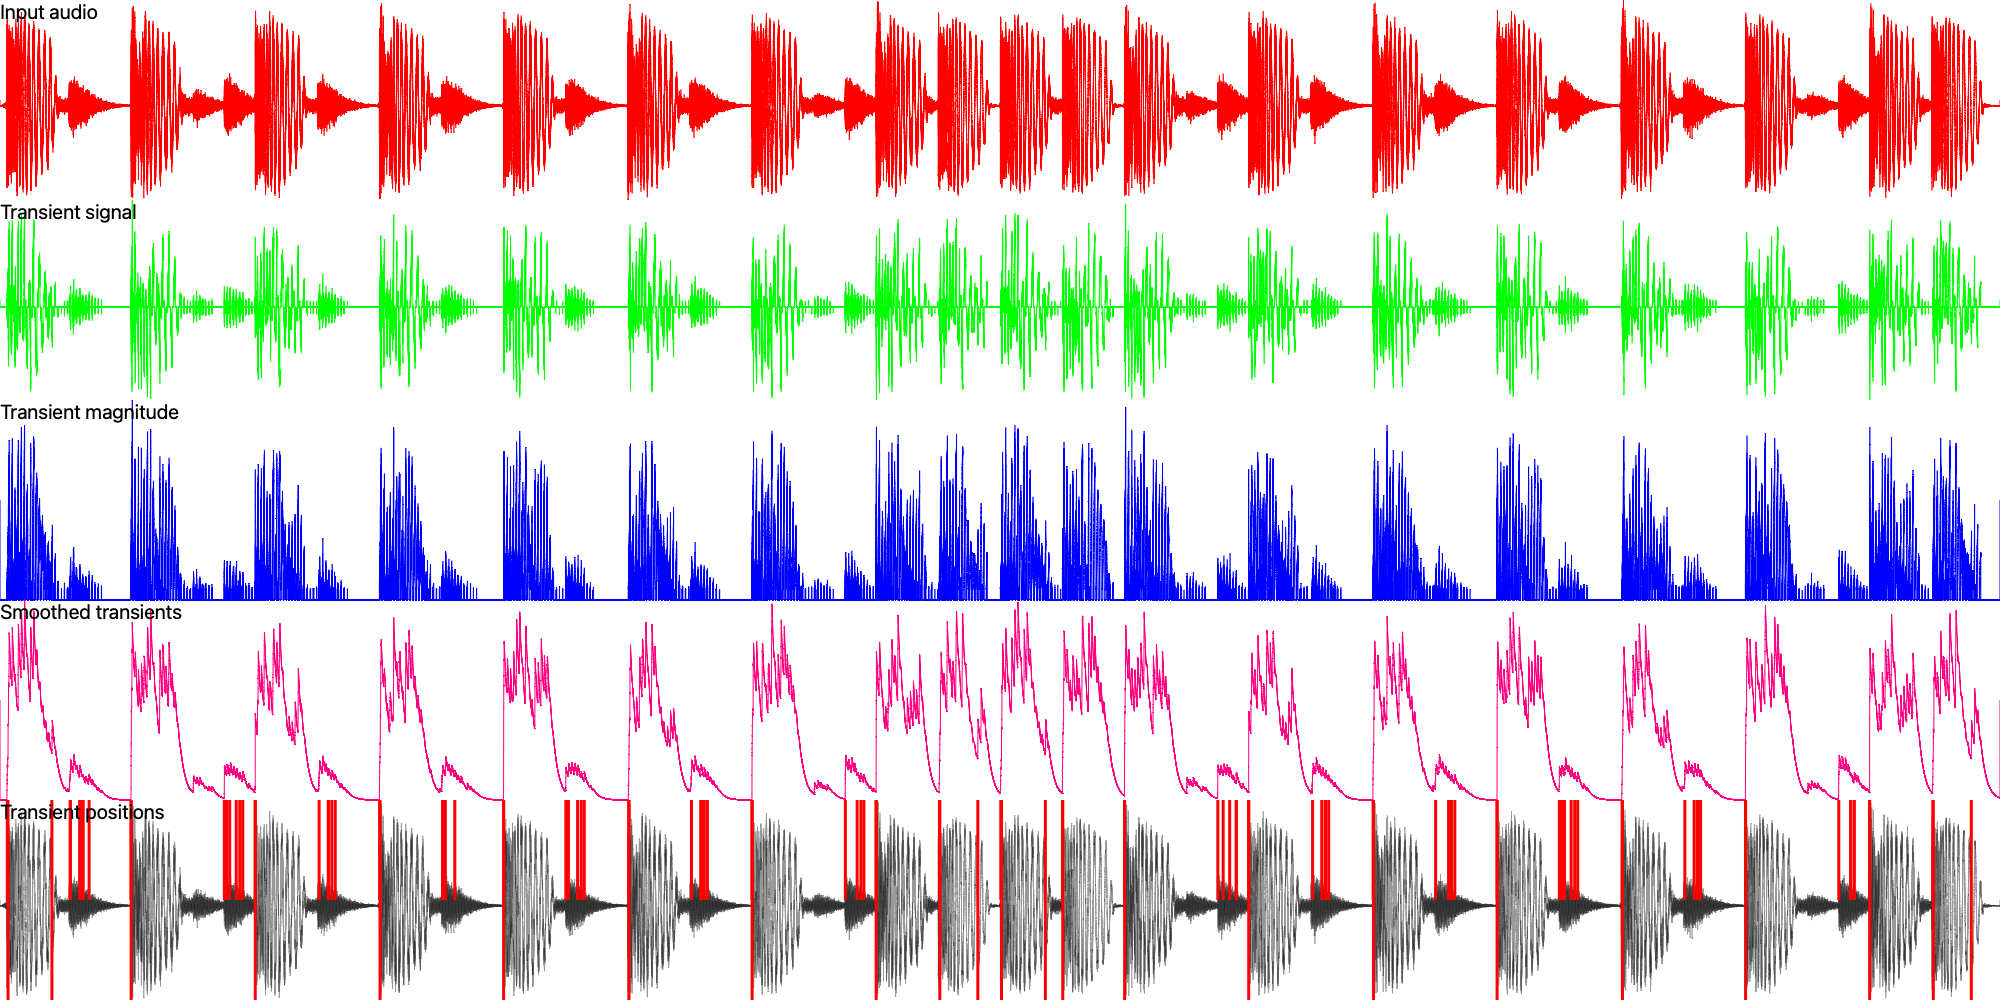
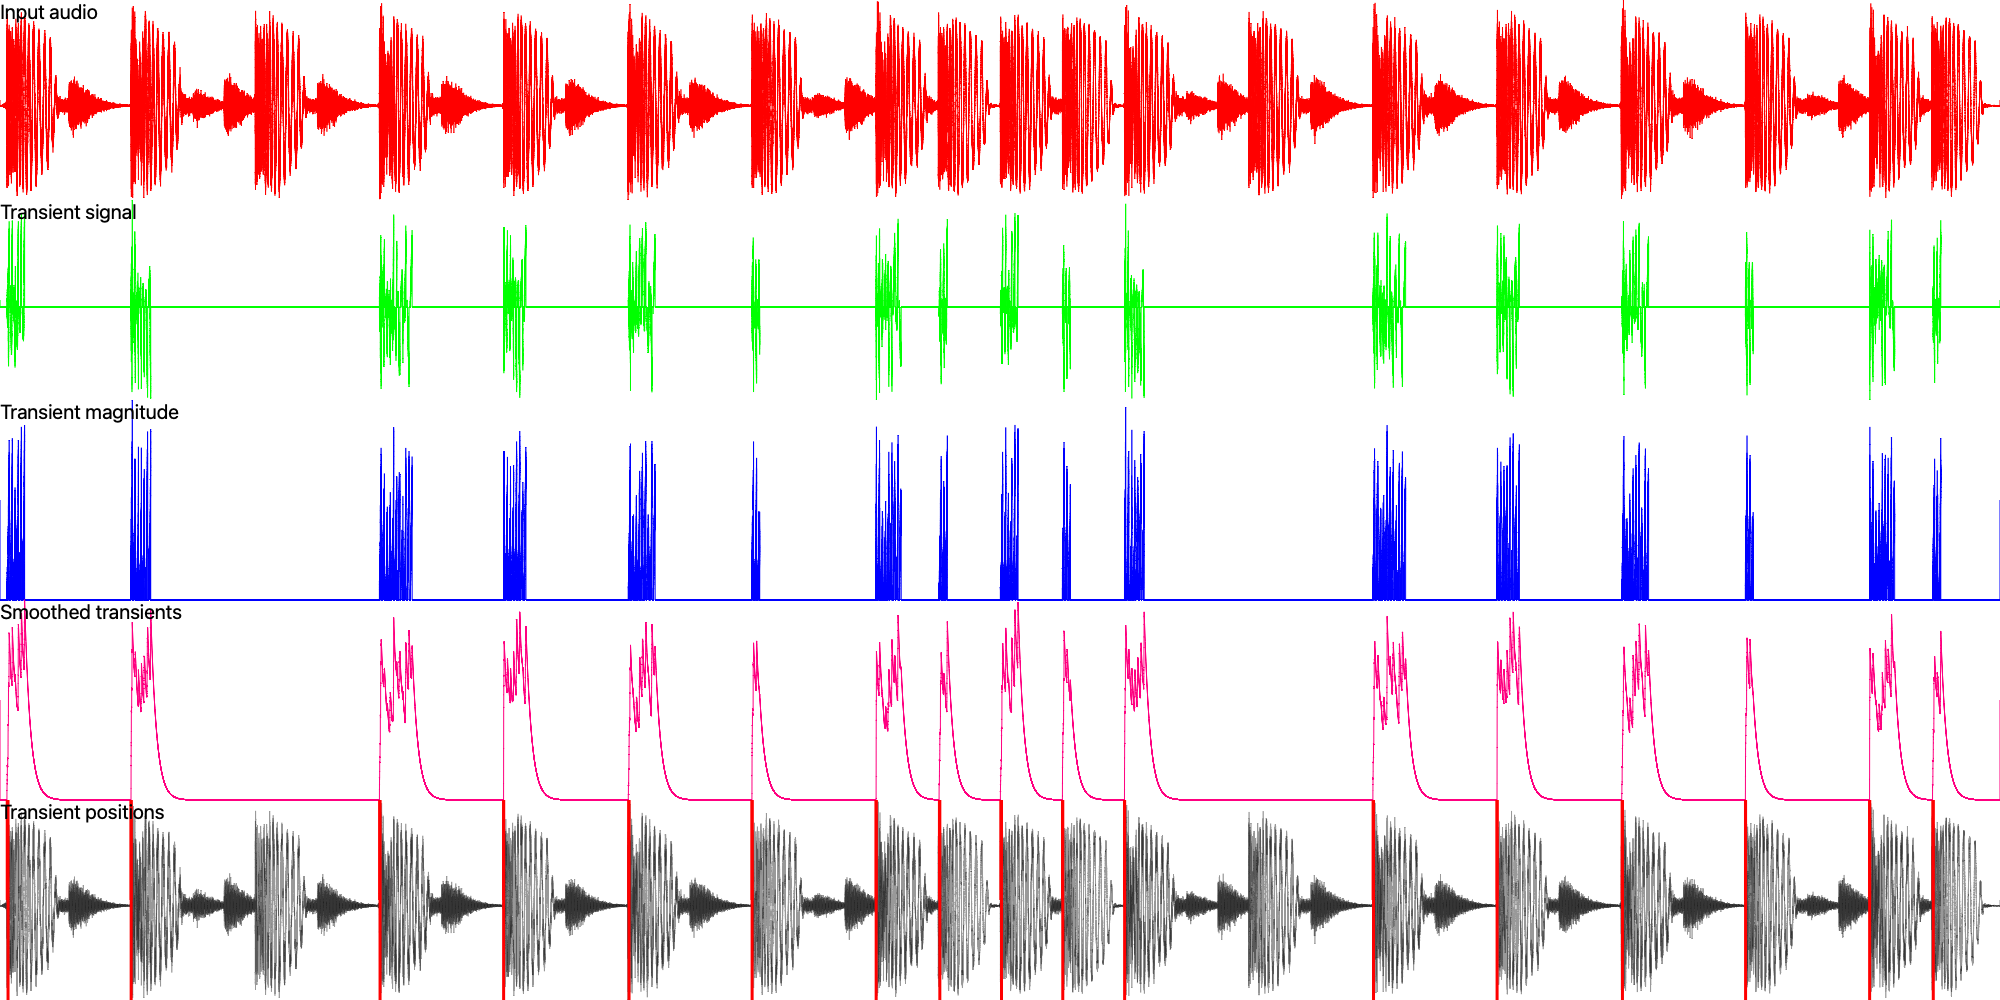
Fix issues with algorithm

diff --git a/crates/augmented/audio/audio-processor-analysis/src/transient_detection/stft.rs b/crates/augmented/audio/audio-processor-analysis/src/transient_detection/stft.rs
@@ -60,8 +60,8 @@ impl Default for IterativeTransientDetectionParams {
             fft_size,
             fft_overlap_ratio: 0.75,
             power_of_change_spectral_spread: 3,
-            threshold_time_spread: 3,
-            threshold_time_spread_factor: 2.0,
+            threshold_time_spread: 2,
+            threshold_time_spread_factor: 1.5,
             iteration_magnitude_factor: 0.1,
             iteration_count: 20,
             frequency_bin_change_threshold,
@@ -172,7 +172,6 @@ fn find_transients<BufferType: AudioBuffer<SampleType = f32>>(
             count_changed_bins_per_frame(f_frames, threshold_frames);
 
         update_output_and_magnitudes(
-            iteration,
             iteration_magnitude_factor,
             frequency_bin_change_threshold,
             num_changed_bins_frames,
@@ -193,7 +192,6 @@ fn find_transients<BufferType: AudioBuffer<SampleType = f32>>(
 /// Last step on iteration, collect `iteration_magnitude_factor * M(frame, bin)` if this whole frame
 /// is a transient, subtract `1.0 - iteration_magnitude_factor` from the magnitude frames.
 fn update_output_and_magnitudes(
-    iteration: usize,
     iteration_magnitude_factor: f32,
     frequency_bin_change_threshold: usize,
     num_changed_bins_frames: Vec<usize>,
@@ -202,7 +200,7 @@ fn update_output_and_magnitudes(
 ) {
     for i in 0..transient_magnitude_frames.len() {
         for j in 0..transient_magnitude_frames[i].len() {
-            if iteration == 0 || num_changed_bins_frames[i] >= frequency_bin_change_threshold {
+            if num_changed_bins_frames[i] >= frequency_bin_change_threshold {
                 transient_magnitude_frames[i][j] +=
                     iteration_magnitude_factor * magnitude_frames[i][j];
                 magnitude_frames[i][j] -=
@@ -801,18 +799,16 @@ mod test {
         ) {
             let len = frames.len() as f64;
             let order = |f1: f32, f2: f32| f1.partial_cmp(&f2).unwrap_or(Ordering::Less);
-            let min_sample = *frames.iter().min_by(|f1, f2| order(**f1, **f2)).unwrap() as f64;
-            let max_sample = *frames.iter().max_by(|f1, f2| order(**f1, **f2)).unwrap() as f64;
             let fwidth = width as f64;
             let fheight = height as f64;
 
-            let mut lines: Vec<Line> = frames
+            let lines: Vec<Line> = frames
                 .iter()
                 .enumerate()
                 .map(|(i, s)| ((i as f64 / len) * fwidth, *s))
                 .filter(|(_i, x)| !(x.is_nan() || x.is_infinite()))
                 .filter(|(_i, x)| *x > 0.0)
-                .map(|(x, y)| Line::new(Point::new(x, 0.0), (x, fheight)))
+                .map(|(x, _y)| Line::new(Point::new(x, 0.0), (x, fheight)))
                 .collect();
             for line in lines {
                 render_context.stroke(&line, signal_color, 3.0);
